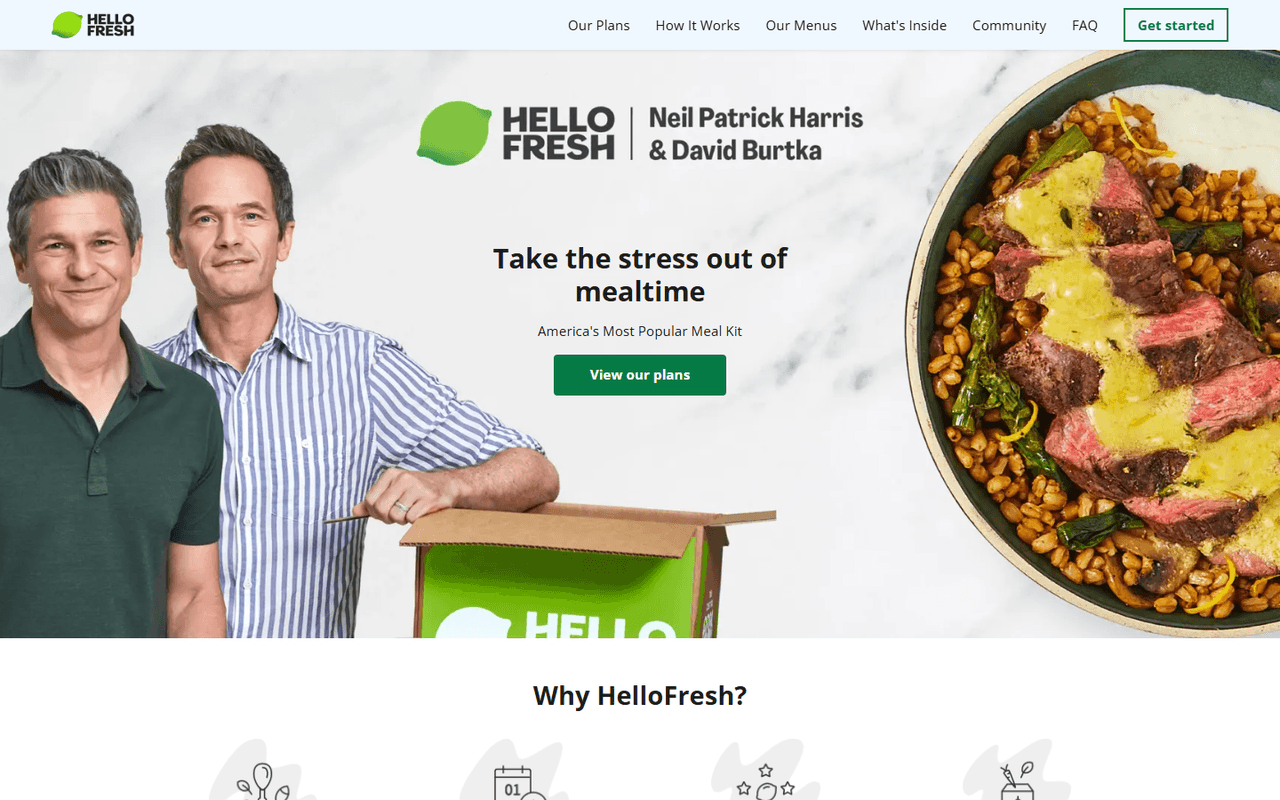
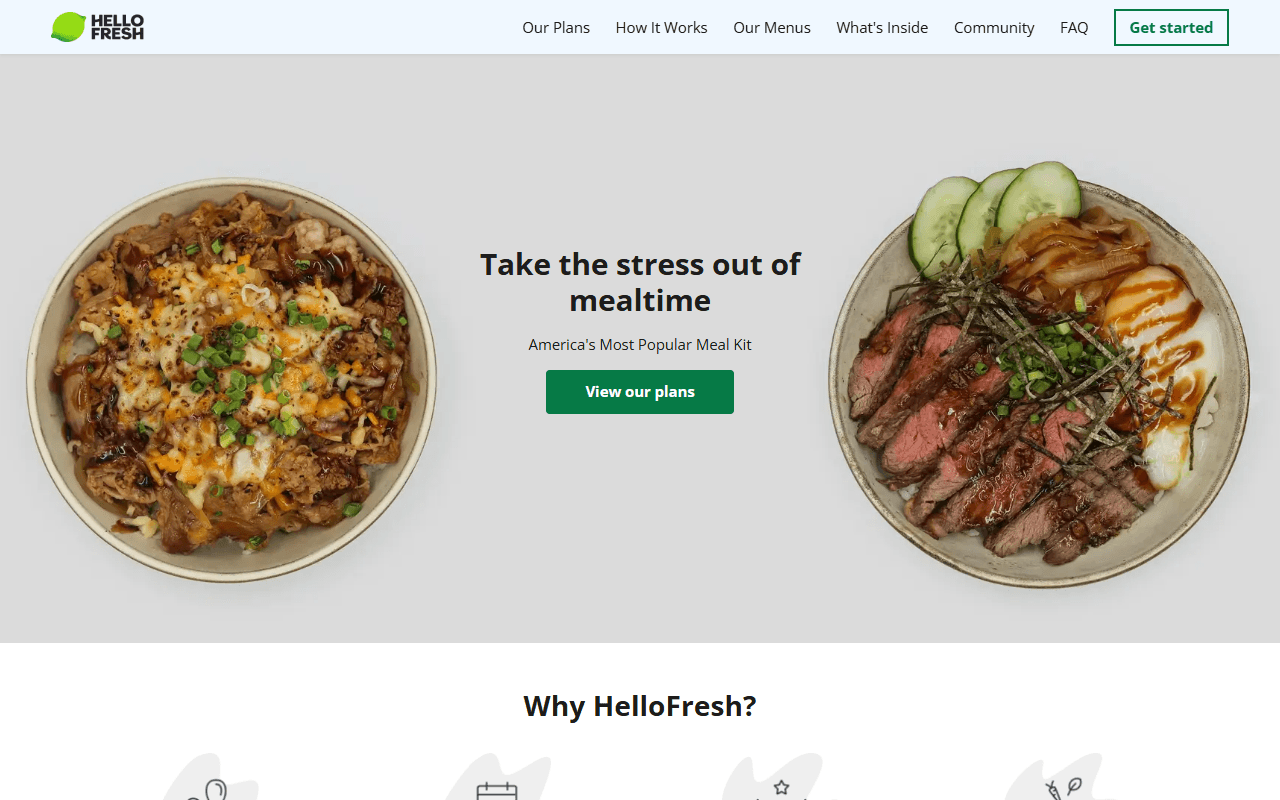
Replace real people's photos with credited Unsplash stock photos
- Hero: new food-only banner built from two Unsplash photos (no celebrities)
- Community section: four hands-only cooking photos, new captions and alt text
- Footer: decorative social icons replaced by a real link to github.com/codelady-ship
- Mobile hero shows the whole banner (aspect ratio matches the image)
- README: photo credits; screenshots retaken, old before-shots removed

diff --git a/hellofresh.html b/hellofresh.html
@@ -120,24 +120,24 @@
         <section class="page5" id="community" aria-labelledby="community-title">
             <div class="over">
                 <h2 id="community-title">Cook it. Love it. Tag it #HelloFreshPics</h2>
-                <p>Photos shared by home cooks</p>
+                <p>A few moments from cooking at home</p>
             </div>
             <div class="page5img">
                 <figure class="C">
-                    <img src="./images/page5-1.webp" alt="A child helping to cook dinner at the kitchen table" width="375" height="469" loading="lazy">
-                    <figcaption><strong>Little chef</strong>My little chef helped me make dinner tonight and tried out his new kitchen utensils!</figcaption>
+                    <img src="./images/page5-1.webp" alt="Hands chopping herbs on a white cutting board next to mushrooms" width="375" height="469" loading="lazy">
+                    <figcaption><strong>Prep time</strong>Herbs and mushrooms chopped and ready before the pan heats up.</figcaption>
                 </figure>
                 <figure class="C">
-                    <img src="./images/page5-2.webp" alt="A family smiling at the dinner table" width="375" height="469" loading="lazy">
-                    <figcaption><strong>Family dinner</strong>Dad and the kids made mom dinner tonight. We had our doubts, but wow, it was tasty!</figcaption>
+                    <img src="./images/page5-2.webp" alt="Tomatoes and onions cooking in a black frying pan" width="375" height="469" loading="lazy">
+                    <figcaption><strong>In the pan</strong>Tomatoes and onions softening for a quick weeknight sauce.</figcaption>
                 </figure>
                 <figure class="C">
-                    <img src="./images/page5-3.webp" alt="A boy in a chef hat preparing vegetables" width="375" height="469" loading="lazy">
-                    <figcaption><strong>Helping out</strong>I’m helping out 🧑🏽🍳 #masterchef</figcaption>
+                    <img src="./images/page5-3.webp" alt="Hands mixing grains and spices in small bowls on a wooden table" width="375" height="469" loading="lazy">
+                    <figcaption><strong>Cooking together</strong>Measuring grains and spices, one small bowl at a time.</figcaption>
                 </figure>
                 <figure class="C">
-                    <img src="./images/page5-4.webp" alt="A dog watching a meal being cooked in the kitchen" width="375" height="469" loading="lazy">
-                    <figcaption><strong>Cooking class</strong>We had our weekly cooking class at home and worked as a team. 🙌🏻</figcaption>
+                    <img src="./images/page5-4.webp" alt="Hands placing cherry tomatoes on a wooden board" width="375" height="469" loading="lazy">
+                    <figcaption><strong>Fresh produce</strong>Vine tomatoes for a simple side salad.</figcaption>
                 </figure>
             </div>
         </section>
@@ -196,11 +196,10 @@
         </div>
         <div class="son">
             <p class="finish">Practice clone of the HelloFresh landing page, built for learning (HTML, CSS, JS). Not affiliated with HelloFresh. Code: <a href="https://github.com/codelady-ship/hello-fresh">github.com/codelady-ship/hello-fresh</a></p>
-            <div class="s" aria-hidden="true">
-                <img src="./images/fb.png" alt="" width="24" height="24">
-                <span class="insta"><img src="./images/insta.png" alt="" width="16" height="16"></span>
-                <span class="tvit"><img src="./images/tviter.png" alt="" width="16" height="16"></span>
-            </div>
+            <a class="s" href="https://github.com/codelady-ship" target="_blank" rel="noopener noreferrer" aria-label="codelady-ship on GitHub (opens in a new tab)">
+                <svg xmlns="http://www.w3.org/2000/svg" width="24" height="24" viewBox="0 0 16 16" fill="currentColor" aria-hidden="true"><path d="M8 0C3.58 0 0 3.58 0 8c0 3.54 2.29 6.53 5.47 7.59.4.07.55-.17.55-.38 0-.19-.01-.82-.01-1.49-2.01.37-2.53-.49-2.69-.94-.09-.23-.48-.94-.82-1.13-.28-.15-.68-.52-.01-.53.63-.01 1.08.58 1.23.82.72 1.21 1.87.87 2.33.66.07-.52.28-.87.51-1.07-1.78-.2-3.64-.89-3.64-3.95 0-.87.31-1.59.82-2.15-.08-.2-.36-1.02.08-2.12 0 0 .67-.21 2.2.82.64-.18 1.32-.27 2-.27.68 0 1.36.09 2 .27 1.53-1.04 2.2-.82 2.2-.82.44 1.1.16 1.92.08 2.12.51.56.82 1.27.82 2.15 0 3.07-1.87 3.75-3.65 3.95.29.25.54.73.54 1.48 0 1.07-.01 1.93-.01 2.2 0 .21.15.46.55.38A8.013 8.013 0 0016 8c0-4.42-3.58-8-8-8z"/></svg>
+                <span>codelady-ship</span>
+            </a>
         </div>
     </footer>
     <script src="./hellofresh.js"></script>

diff --git a/hellofresh.css b/hellofresh.css
@@ -242,10 +242,8 @@ footer { padding: 2rem clamp(1rem, 4vw, 4rem) 1rem; background: #f7f7f7; }
     font-size: 0.85rem;
 }
 .finish a { color: #067a46; text-decoration: underline; overflow-wrap: anywhere; }
-.s { display: flex; gap: 0.8rem; align-items: center; }
-.insta, .tvit { display: inline-flex; padding: 0.3rem; }
-.insta { border-radius: 30%; background-color: #e1306c; }
-.tvit { border-radius: 50%; background-color: #1d9bf0; }
+.s { display: inline-flex; gap: 0.5rem; align-items: center; color: #1e1f20; text-decoration: none; font-weight: 600; white-space: nowrap; }
+.s:hover, .s:focus-visible { color: #067a46; text-decoration: underline; }
 /* arrow-next.png has more transparent padding than arrow-prev.png */
 .arrow.next img { width: 5.3rem; height: 5.3rem; margin: -1.25rem; }
 .page6 h2, .page6 p { background: rgba(255, 255, 255, 0.85); padding: 0.2rem 1rem; border-radius: 4px; }

diff --git a/responsive.css b/responsive.css
@@ -34,8 +34,8 @@
     .page1::before {
         content: "";
         display: block;
-        aspect-ratio: 16 / 9;
-        background: url("./images/page1.webp") no-repeat 50% 0 / cover;
+        aspect-ratio: 1920 / 790;
+        background: url("./images/page1.webp") no-repeat center / cover;
     }
     .hero-text { max-width: none; padding: 1.5rem 1rem 0; }
     .page1 h1 { font-size: 1.8rem; }

diff --git a/README.md b/README.md
@@ -4,7 +4,7 @@
 
 A responsive clone of the HelloFresh meal-kit landing page, built with plain HTML, CSS and a little JavaScript to practise layout and responsive design.
 
-> **Practice clone.** This is a learning project. It is not affiliated with, endorsed by or connected to HelloFresh. Brand names and images belong to their owners.
+> **Practice clone.** This is a learning project. It is not affiliated with, endorsed by or connected to HelloFresh. The HelloFresh name, logo, icons and recipe photos belong to HelloFresh. The hero and community photos are free stock photos from Unsplash (see [Photo credits](#photo-credits)); the clone shows no photos of real customers or celebrities.
 >
 > 🇦🇿 Təlim layihəsi: HelloFresh açılış səhifəsinin HTML, CSS və JavaScript ilə hazırlanmış responsiv klonu.
 
@@ -18,8 +18,21 @@ A responsive clone of the HelloFresh meal-kit landing page, built with plain HTM
 - FAQ built with native `<details>` / `<summary>` (no JavaScript needed)
 - Responsive layout with CSS Grid and Flexbox, tested at 390, 768, 1440 and 1920 px
 - Self-hosted Open Sans font via `@font-face`
-- Large images converted to WebP (hero image went from 4.9 MB to 140 KB)
+- Large images converted to WebP (every photo is under 200 KB)
 - SEO basics: meta description, canonical URL, Open Graph/Twitter tags, favicon, `robots.txt`, `sitemap.xml`
+
+## Photo credits
+
+Free photos from [Unsplash](https://unsplash.com), used under the [Unsplash License](https://unsplash.com/license). They were cropped and converted to WebP.
+
+| File | Photo | Photographer |
+|---|---|---|
+| `images/page1.webp` (hero, left bowl) | [Bowl of food on a white table](https://unsplash.com/photos/a-bowl-of-food-on-a-white-table-KwGoCJGwbCs) | [Xavier Chng](https://unsplash.com/@cohesionsingapore) |
+| `images/page1.webp` (hero, right bowl) | [Plate of food with meat, vegetables and sauce](https://unsplash.com/photos/a-plate-of-food-with-meat-vegetables-and-sauce-o3Og5MYceTI) | [Xavier Chng](https://unsplash.com/@cohesionsingapore) |
+| `images/page5-1.webp` | [Person slicing vegetable](https://unsplash.com/photos/person-slicing-vegetable-uB7q7aipU2o) | Jonathan Borba |
+| `images/page5-2.webp` | [Person holding black frying pan with cooked food](https://unsplash.com/photos/person-holding-black-frying-pan-with-cooked-food-UjIkvPvfsFY) | Carlos Fernández |
+| `images/page5-3.webp` | [People mixing items on bowl](https://unsplash.com/photos/people-mixing-items-on-bowl-XiWtCLWK5K8) | Annie Spratt |
+| `images/page5-4.webp` | [Hands arranging fresh cherry tomatoes on a wooden board](https://unsplash.com/photos/hands-arranging-fresh-cherry-tomatoes-on-a-wooden-board-Yy8FETHf8lo) | [Ahmet Koç](https://unsplash.com/@ahmetkoc) |
 
 ## Tech stack
 
